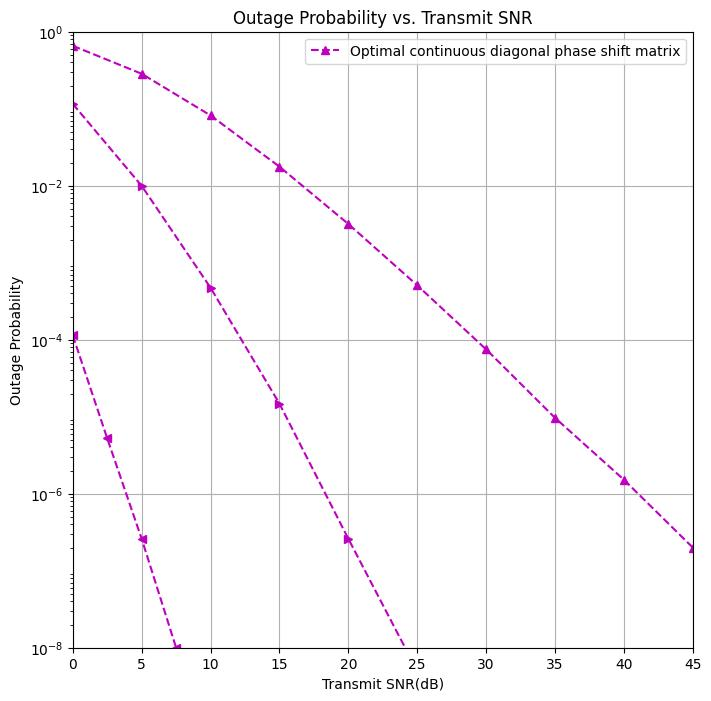
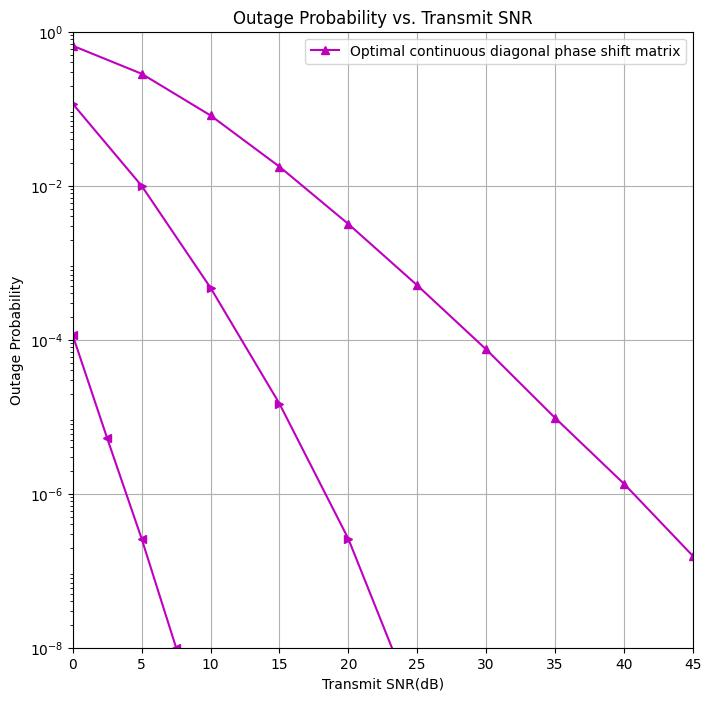
2024.11.15(Fri)_v1

diff --git a/reproduce.py b/reproduce.py
@@ -28,7 +28,7 @@ def outage_prob_plot(fig_num):
         P_out_values_2_4 = np.load(f"./Curves/outage_prob_2_4.npy")
         P_out_values_2_8 = np.load(f"./Curves/outage_prob_2_8.npy")
 
-        plt.figure(figsize=(8, 8))
+        plt.figure(figsize=(10, 8))
         plt.title('Outage Probability vs. Transmit SNR')
 
         plt.plot(10 * np.log10(P_out_values_3_2[0]), P_out_values_3_2[1], 'rs-', label=f'Outage Probability with L=3')
@@ -40,9 +40,11 @@ def outage_prob_plot(fig_num):
         plt.plot(10 * np.log10(P_out_values_2_8[0]), P_out_values_2_8[1], 'bo-')
 
 
-        plot_slope(2, np.linspace(37.5, 45, 1000), 2.1, None)
-        plot_slope(4, np.linspace(20, 45, 1000), 1.8, None)
-        plot_slope(8, np.linspace(5.5, 45, 100), -2, "Slope N")
+
+        plot_slope(2, np.linspace(39.5, 45, 1000), 2.1, None)
+        plot_slope(4, np.linspace(21.5, 45, 1000), 1.8, None)
+        plot_slope(8, np.linspace(7, 45, 1000), -1.45, "Slope N")
+
 
         plt.yscale('log', base=10)
         plt.yticks([10**-8, 10**-6, 10**-4, 10**-2, 10**0])
@@ -74,10 +76,10 @@ def outage_prob_plot(fig_num):
         plt.figure(figsize=(8, 8))
         plt.title('Outage Probability vs. Transmit SNR')
 
-        plt.plot(10 * np.log10(opt_sc_P_out_values_2[0]), opt_sc_P_out_values_2[1], 'm^--',
+        plt.plot(10 * np.log10(opt_sc_P_out_values_2[0]), opt_sc_P_out_values_2[1], 'm^-',
                  label=f'Optimal continuous diagonal phase shift matrix')
-        plt.plot(10 * np.log10(opt_sc_P_out_values_4[0]), opt_sc_P_out_values_4[1], 'm>--')
-        plt.plot(10 * np.log10(opt_sc_P_out_values_8[0]), opt_sc_P_out_values_8[1], 'm<--')
+        plt.plot(10 * np.log10(opt_sc_P_out_values_4[0]), opt_sc_P_out_values_4[1], 'm>-')
+        plt.plot(10 * np.log10(opt_sc_P_out_values_8[0]), opt_sc_P_out_values_8[1], 'm<-')
 
         plt.yscale('log', base=10)
         plt.yticks([10 ** -8, 10 ** -6, 10 ** -4, 10 ** -2, 10 ** 0])
@@ -110,18 +112,27 @@ def outage_prob_plot(fig_num):
         P_out_values_2_4 = np.load(f"./Curves/outage_prob_2_4.npy")
         P_out_values_2_8 = np.load(f"./Curves/outage_prob_2_8.npy")
 
-        opt_sc_P_out_values_2 = np.load(f"./Curves/opt_outage_prob_2.npy")
-        opt_sc_P_out_values_4 = np.load(f"./Curves/opt_outage_prob_4.npy")
-        opt_sc_P_out_values_8 = np.load(f"./Curves/opt_outage_prob_8.npy")
 
+        opt_sc_P_out_values_2 = np.load(f"./Curves/SC_opt_outage_prob_2.npy")
+        opt_sc_P_out_values_4 = np.load(f"./Curves/SC_opt_outage_prob_4.npy")
+        opt_sc_P_out_values_8 = np.load(f"./Curves/SC_opt_outage_prob_8.npy")
 
         plt.figure(figsize=(8, 8))
         plt.title('Outage Probability vs. Transmit SNR')
 
-        plt.plot(10 * np.log10(opt_fc_P_out_values_2[0]), opt_fc_P_out_values_2[1], 'y^--',
-                 label=f'')
-        plt.plot(10 * np.log10(opt_fc_P_out_values_4[0]), opt_fc_P_out_values_4[1], 'y>--')
-        plt.plot(10 * np.log10(opt_fc_P_out_values_8[0]), opt_fc_P_out_values_8[1], 'y<--')
+        plt.plot(10 * np.log10(P_out_values_3_2[0]), P_out_values_3_2[1], 'rs-', label=f'Outage Probability with L=3')
+        plt.plot(10 * np.log10(P_out_values_3_4[0]), P_out_values_3_4[1], 'rs-')
+        plt.plot(10 * np.log10(P_out_values_3_8[0]), P_out_values_3_8[1], 'rs-')
+
+        plt.plot(10 * np.log10(P_out_values_2_2[0]), P_out_values_2_2[1], 'bo-', label=f'Outage Probability with L=2')
+        plt.plot(10 * np.log10(P_out_values_2_4[0]), P_out_values_2_4[1], 'bo-')
+        plt.plot(10 * np.log10(P_out_values_2_8[0]), P_out_values_2_8[1], 'bo-')
+
+        plt.plot(10 * np.log10(opt_sc_P_out_values_2[0]), opt_sc_P_out_values_2[1], 'm^-',
+                 label=f'Optimal continuous diagonal phase shift matrix')
+        plt.plot(10 * np.log10(opt_sc_P_out_values_4[0]), opt_sc_P_out_values_4[1], 'm>-')
+        plt.plot(10 * np.log10(opt_sc_P_out_values_8[0]), opt_sc_P_out_values_8[1], 'm<-')
+
 
         plt.yscale('log', base=10)
         plt.yticks([10 ** -8, 10 ** -6, 10 ** -4, 10 ** -2, 10 ** 0])

diff --git a/simulations.py b/simulations.py
@@ -4,7 +4,7 @@ import os
 from SystemModel import *
 
 
-def outage_prob_simulation(Omega_S, Omega_I, P, eta, delta, epsilon_0):
+def outage_prob_simulation(Omega_S, Omega_I, P, delta, epsilon_0):
     # rho values to infinity
     rho_values = np.logspace(0, 4.5, 10)
     narrow_rho_values = np.logspace(0, 2.25, 10)
@@ -13,22 +13,23 @@ def outage_prob_simulation(Omega_S, Omega_I, P, eta, delta, epsilon_0):
     L = 3
 
     P_out_values_3_2 = np.array(
-        [outage_probability(L, 2, P, delta, eta, Omega_S, Omega_I, epsilon_0, rho) for rho in rho_values])
+        [outage_probability(L, 2, P, delta, Omega_S, Omega_I, epsilon_0, rho) for rho in rho_values])
+
     P_out_values_3_4 = np.array(
-        [outage_probability(L, 4, P, delta, eta, Omega_S, Omega_I, epsilon_0, rho) for rho in rho_values])
+        [outage_probability(L, 4, P, delta, Omega_S, Omega_I, epsilon_0, rho) for rho in rho_values])
     # N = 8 이상 일 때는 outage  prob이 15dB 근처에서 0에 수렴함. -> rho values 세분화
     P_out_values_3_8 = np.array(
-        [outage_probability(L, 8, P, delta, eta, Omega_S, Omega_I, epsilon_0, rho) for rho in np.logspace(0, 2.25, 10)])
+        [outage_probability(L, 8, P, delta, Omega_S, Omega_I, epsilon_0, rho) for rho in np.logspace(0, 2.25, 10)])
 
     """When L = 2"""
     L = 2
 
     P_out_values_2_2 = np.array(
-        [outage_probability(L, 2, P, delta, eta, Omega_S, Omega_I, epsilon_0, rho) for rho in rho_values])
+        [outage_probability(L, 2, P, delta, Omega_S, Omega_I, epsilon_0, rho) for rho in rho_values])
     P_out_values_2_4 = np.array(
-        [outage_probability(L, 4, P, delta, eta, Omega_S, Omega_I, epsilon_0, rho) for rho in rho_values])
+        [outage_probability(L, 4, P, delta, Omega_S, Omega_I, epsilon_0, rho) for rho in rho_values])
     P_out_values_2_8 = np.array(
-        [outage_probability(L, 8, P, delta, eta, Omega_S, Omega_I, epsilon_0, rho) for rho in np.logspace(0, 2.25, 10)])
+        [outage_probability(L, 8, P, delta, Omega_S, Omega_I, epsilon_0, rho) for rho in np.logspace(0, 2.25, 10)])
 
     # curve 저장
     np.save(f"./Curves/outage_prob_{3}_{2}", np.array([rho_values, P_out_values_3_2]))
@@ -58,12 +59,6 @@ def opt_outage_prob_simulation(Omega_S, Omega_I, P, eta, delta, epsilon_0):
     np.save(f"./Curves/SC_opt_outage_prob_{4}", np.array([rho_values, opt_P_out_values_4]))
     np.save(f"./Curves/SC_opt_outage_prob_{8}", np.array([narrow_rho_values, opt_P_out_values_8]))
 
-def Diversity_gain_similation(Omega_S, Omega_I):
-    N_values = np.linspace(2, 30, 29)
-
-    diversity_gain = np.array([get_Div_gain(int(n), Omega_S, Omega_I) for n in N_values])
-
-    np.save(f"./Curves/diversity_gain", np.array([N_values, diversity_gain]))
 
 
 

diff --git a/main.py b/main.py
@@ -14,14 +14,14 @@ delta = 0.1  # Variance of noise
 
 R0 = 1  # data rate in bits per channel use(BPCU)
 epsilon_0 = (2 ** R0 - 1) / (eta ** 2 * Omega_S * Omega_I)
-
+# epsilon_0 = (2 ** R0 - 1) / (Omega_S * Omega_I)
 
 """"""""""""""""""""""""""""""""""""""" RUN """""""""""""""""""""""""""""""""""""""""
 """  outage_prob_simulation(Omega_S, Omega_I, P, eta, delta, epsilon_0)           """
 """  opt_sc_outage_prob_simulation(Omega_S, Omega_I, P, eta, delta, epsilon_0)    """
 """"""""""""""""""""""""""""""""""""""" RUN """""""""""""""""""""""""""""""""""""""""
-
-
+# outage_prob_simulation(Omega_S, Omega_I, P, eta, delta, epsilon_0)
+# outage_prob_simulation(Omega_S, Omega_I, P, delta, epsilon_0)
 """"""""""""""""""""""""""""""""""""""" FIG """""""""""""""""""""""""""""""""""""""""
 """ fig_num = 1 : The outage probability versus the SNR with quantized RIS        """
 """ fig_num = 2 : The outage probability versus the SNR with optimal RIS          """
@@ -29,7 +29,4 @@ epsilon_0 = (2 ** R0 - 1) / (eta ** 2 * Omega_S * Omega_I)
 """                                                                               """
 """ outage_prob_plot(fig_num)                                                     """
 """"""""""""""""""""""""""""""""""""""" FIG """""""""""""""""""""""""""""""""""""""""
-outage_prob_plot(2)
-
-rho_values = np.logspace(0, 4.5, 10)
-narrow_rho_values = np.logspace(0, 2.25, 10)
+outage_prob_plot(1)

diff --git a/SystemModel.py b/SystemModel.py
@@ -33,7 +33,7 @@ def SNR_calc(P, delta, eta, h_SI, Phi, h_ID, Omega_S, Omega_I):
     rho = P / delta ** 2
     g_n = np.abs(h_SI * h_ID) @ Phi / np.sqrt(Omega_S * Omega_I)  # normalized channel coefficient
 
-    ReceivedSNR = rho * eta ** 2 * Omega_S * Omega_I * np.abs(np.sum(g_n)) ** 2
+    ReceivedSNR = rho * np.power(eta, 2) * Omega_S * Omega_I * np.abs(np.sum(g_n)) ** 2
 
     return g_n, ReceivedSNR
 
@@ -60,7 +60,7 @@ def cdf_gn_squared(x):
 def outage_probability(L, N, P, delta, eta, Omega_S, Omega_I, threshold, rho):
     prob_count = 0
 
-    num_simulations = int(1e+5)
+    num_simulations = int(5e+8)
     pbar = tqdm(range(num_simulations))
     for _ in pbar:
         pbar.set_description(f"Outage simulation when L={L} N={N}")
@@ -107,7 +107,4 @@ def opt_outage_probability(N, P, delta, eta, Omega_S, Omega_I, threshold, rho):
 '''''''''''''''''''''''''''''''''''''''''''''''''''''''''''''''''''''''''''''''''''''''''''''''''''''''''''''''''''''''
 The above part is implemented according to the reference.
 '''''''''''''''''''''''''''''''''''''''''''''''''''''''''''''''''''''''''''''''''''''''''''''''''''''''''''''''''''''''
-
-
-
 
